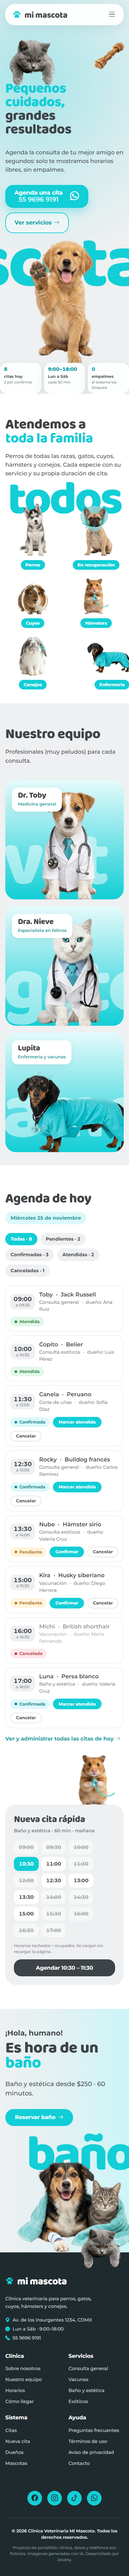
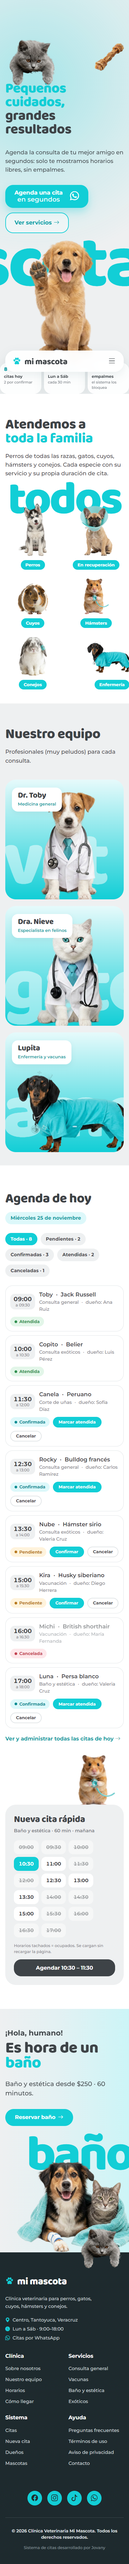
Footer: clinic in Tantoyuca, Veracruz; cleaner credit line

Changed region(s): [[0.0, 0.0, 1.0, 0.9962], [0.9231, 0.0934, 1.0, 0.1245]]

diff --git a/README.md b/README.md
@@ -2,7 +2,7 @@
 
 ![CI](../../actions/workflows/ci.yml/badge.svg)
 
-Appointment booking system for a small veterinary clinic, **Mi Mascota**. Staff register pet owners and their pets, keep a catalog of services, and book appointments on a calendar grid that only offers free time slots. Each appointment then moves through a controlled workflow: **Pendiente → Confirmada → Atendida**, or **Cancelada**.
+Appointment booking system for **Mi Mascota**, a small veterinary clinic in Tantoyuca, Veracruz. The demo data (owners, pets, appointments) is fictional. Staff register pet owners and their pets, keep a catalog of services, and book appointments on a calendar grid that only offers free time slots. Each appointment then moves through a controlled workflow: **Pendiente → Confirmada → Atendida**, or **Cancelada**.
 
 **Stack:** C# · ASP.NET Core 9 MVC (Razor views) · Entity Framework Core 9 · SQL Server (SQLite for local runs) · Bootstrap 5 · jQuery/AJAX · xUnit
 
